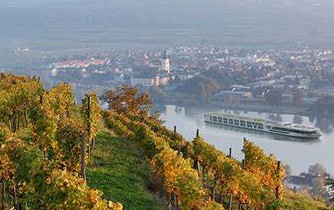
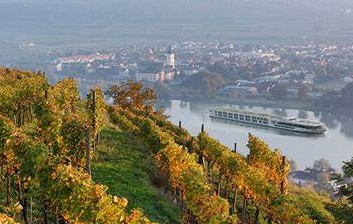
Add experts-container

diff --git a/national-geographic-expeditions/index.html b/national-geographic-expeditions/index.html
@@ -24,7 +24,7 @@
                 <div class="phone-and-hours">
                     <p class="tel">
                         <i class="fa-solid fa-phone"></i>
-                        <a class="tel" href="tel:+18889668687">1-888-966-8687</a>
+                        <a class="tel yellow-link" href="tel:+18889668687">1-888-966-8687</a>
                     </p>
                     <p class="working-hours">M-F <time>9am-8pm</time> ET</p>
                 </div>
@@ -155,7 +155,7 @@
             <h5>How do you like to travel?</h5>
             <p>By train or small ship? In a group of like-minded travelers or with a traveling companion you choose?
                 Select the type of trip you're looking for below.</p>
-            <a class="view-all-trips" href="#">View all trips</a>
+            <a class="yellow-link view-all-trips" href="#">View all trips</a>
         </div>
         <div class="img-carousel-container">
             <div class="type-of-trip-container">
@@ -170,7 +170,7 @@
             <div class="type-of-trip-container">
                 <a class="carousel-link" href="#">
                     <div class="img-container img-container2">
-                        <img src="images/river-crouses-image.jpg"
+                        <img src="images/river-crouses-image2.jpg"
                             alt="a cruiser in a river with a city on the background" width="315">
                     </div>
                     <p><i></i><span>River cruises</span></p>
@@ -188,7 +188,7 @@
             <div class="type-of-trip-container">
                 <a class="carousel-link" href="#">
                     <div class="img-container img-container4">
-                        <img src="images/expedition-cruises-ship-antarctic-penguins2"
+                        <img src="images/expedition-cruises-ship-antarctic-penguins2.jpg"
                             alt="a nat geo ship in the arctic with penguins in the front" width="315">
                     </div>
                     <p><i></i><span>Expedition cruises</span></p>
@@ -201,6 +201,66 @@
                             alt="the swiss italy train" width="315">
                     </div>
                     <p><i></i><span>Train trips</span></p>
+                </a>
+            </div>
+        </div>
+    </div>
+
+    <div class="experts-container">
+        <div class="nat-geo-experts">
+            <h2>Explore with Nat Geo experts</h2>
+            <p>National Geographic researchers, explorers, writers, and photographers have brought the world to our members for more than 125 years. On our expeditions, they share their passion and their insider perspective. We'd like to introduce you to a few of them.</p>
+            <a class="yellow-link view-all-experts" href="#">View all Experts</a>
+        </div>
+        <div class="experts-images-container">
+            <div class="expert-container">
+                <a href="#">
+                    <div class="img-container expert-img-container1">
+                        <img src="images/expert-wade-davis-sixty-seven.jpg" alt="a closeup of expert wade davis"
+                            width="220">
+                    </div>
+                    <p class="expert-name">Wade Davis</p>
+                    <p class="profession">Author, Anthropologist</p>
+                </a>
+            </div>
+            <div class="expert-container">
+                <a href="#">
+                    <div class="img-container expert-img-container2">
+                        <img src="images/expert-hans-ngoteya-six-sixty-seven.jpg" alt="a closeup of expert hans cosmas ngotea"
+                            width="220">
+                    </div>
+                    <p class="expert-name">Hans Cosmas Ngotea</p>
+                    <p class="profession">Educator</p>
+                </a>
+            </div>
+            <div class="expert-container">
+                <a href="#">
+                    <div class="img-container expert-img-container3">
+                        <img src="images/expert_tierney_thys_six-sixty-seven.jpg" alt="a closeup of expert tierney thys"
+                            width="220">
+                    </div>
+                    <p class="expert-name">Tierney Thys</p>
+                    <p class="profession">Marine Biologist</p>
+                </a>
+            </div>
+            <div class="expert-container">
+                <a href="#">
+                    <div class="img-container expert-img-container4">
+                        <img src="images/expert-sandesh-kadur-six-sixty-seven.jpg" alt="a closeup of expert sandesh kadur"
+                            width="220">
+                    </div>
+                    <p class="expert-name">Sandesh Kadur</p>
+                    <p class="profession">Filmmaker, Photographer</p>
+                </a>
+            </div>
+            <div class="expert-container">
+                <a href="#">
+                    <div class="img-container expert-img-container5">
+                        <img src="images/expert-m-jackson-six-sixty-seven.jpg" alt="a closeup of expert m jackson"
+                            width="220">
+                    </div>
+                    <p class="expert-name">M Jackson</p>
+                    <p class="profession">Geographer</p>
                 </a>
             </div>
         </div>

diff --git a/national-geographic-expeditions/styles.css b/national-geographic-expeditions/styles.css
@@ -11,6 +11,23 @@
 
 
 
+
+a.yellow-link {
+    border-bottom: 2px solid var(--yellow);
+
+    background: linear-gradient(#ffffff, #ffffff 50%, var(--yellow) 50%, var(--yellow));
+    background-size: 100% 200%;
+    transition: background .2s;
+}
+
+a.yellow-link:hover {
+    background-position: 100% 100%;
+}
+
+
+
+
+
 /* header */
 header div.header {
     display: flex;
@@ -46,15 +63,6 @@ header div.contact-and-search-container div p.tel {
 
 header div.contact-and-search-container div p.tel a.tel {
     padding-top: 0.2em;
-    border-bottom: 2px solid var(--yellow);
-
-    background: linear-gradient(#ffffff, #ffffff 50%, var(--yellow) 50%, var(--yellow));
-    background-size: 100% 200%;
-    transition: background .2s;
-}
-
-header div.contact-and-search-container div p.tel a.tel:hover {
-    background-position: 100% 100%;
 }
 
 header div.contact-and-search-container div p.working-hours {
@@ -305,16 +313,6 @@ div.travel-trips div.how-do-you-like-to-travel a.view-all-trips {
     letter-spacing: 3px;
     font-size: 0.85em;
     font-weight: bold;
-
-    border-bottom: 2px solid var(--yellow);
-
-    background: linear-gradient(#ffffff, #ffffff 50%, var(--yellow) 50%, var(--yellow));
-    background-size: 100% 200%;
-    transition: background .2s;
-}
-
-div.travel-trips div.how-do-you-like-to-travel a.view-all-trips:hover {
-    background-position: 100% 100%;
 }
 
 div.travel-trips div.img-carousel-container {
@@ -380,9 +378,74 @@ div.travel-trips div.img-carousel-container div.img-container {
 div.travel-trips div.img-carousel-container div.img-container img {
     height: 100%;
     object-fit: cover;
+    transition: 0.3s;
 }
 
 div.travel-trips div.img-carousel-container div.img-container img:hover {
     transform: scale(1.1);
-    transition: 0.2s;
+    transition: 0.3s;
+}
+
+
+
+
+/* experts-container styles */
+div.experts-container {
+    text-align: center; 
+    padding-top: 4.5vw;
+    padding-bottom: 6vw;
+}
+
+div.experts-container div.nat-geo-experts {
+    justify-items: center;
+    margin-bottom: 2.85em;
+}
+
+div.experts-container div.nat-geo-experts h2 {
+    text-transform: uppercase;
+    font-size: 2.85em;
+    letter-spacing: 3px;
+    padding-bottom: 0.35em;
+}
+
+div.experts-container div.nat-geo-experts p {
+    font-size: 1.2em;
+    font-weight: 100;
+    letter-spacing: 0.6px;
+    width: 95%; 
+    margin-bottom: 1em;
+}
+
+div.experts-container div.nat-geo-experts a.view-all-experts {
+    font-weight: bold;
+    font-size: 1.1em;
+    padding-top: 0.22em;
+    padding-bottom: 0.22em;
+}
+
+div.experts-container div.experts-images-container {
+    display: flex;
+    justify-content: center;
+
+}
+div.experts-container div.experts-images-container div.expert-container {
+    padding: 0 1.3em;
+}
+
+div.experts-container div.experts-images-container div.expert-container div.img-container {
+    width: 205px;
+    border-radius: 50%;
+    aspect-ratio: 1/1;
+    margin-bottom: 1.8em;
+}
+
+div.experts-container div.experts-images-container div.expert-container p.expert-name {
+    font-weight: bold;
+    font-size: 1.1em;
+    text-shadow: 0 .5px var(--grey);
+    margin-bottom: 0.5em;
+}
+
+div.experts-container div.experts-images-container div.expert-container p.profession {
+    font-size: 0.95em;
 }
